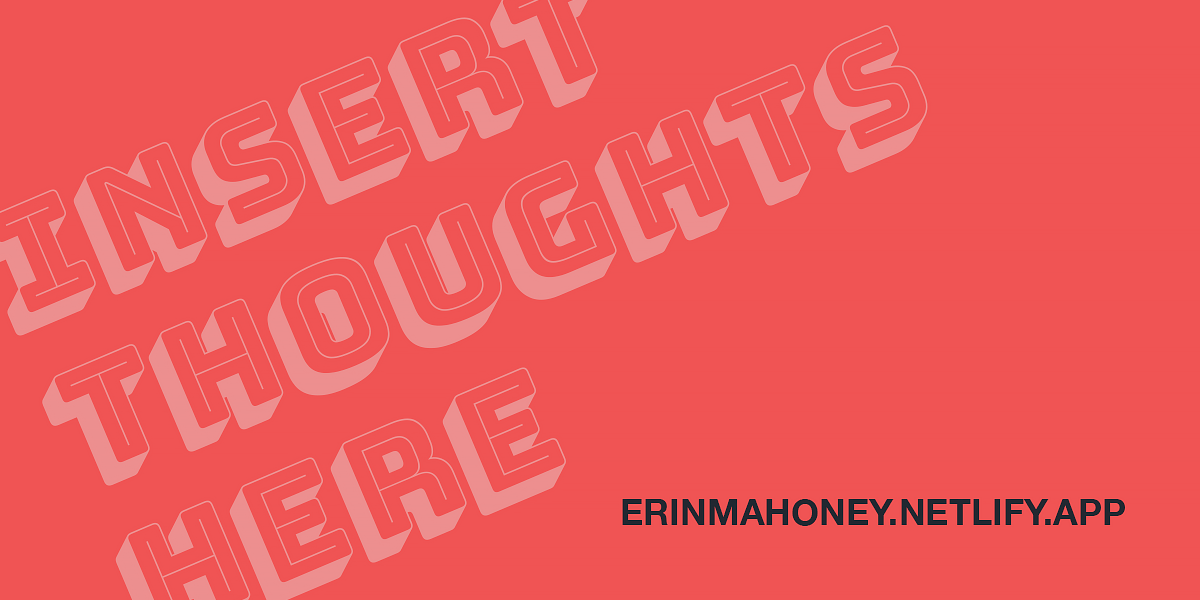
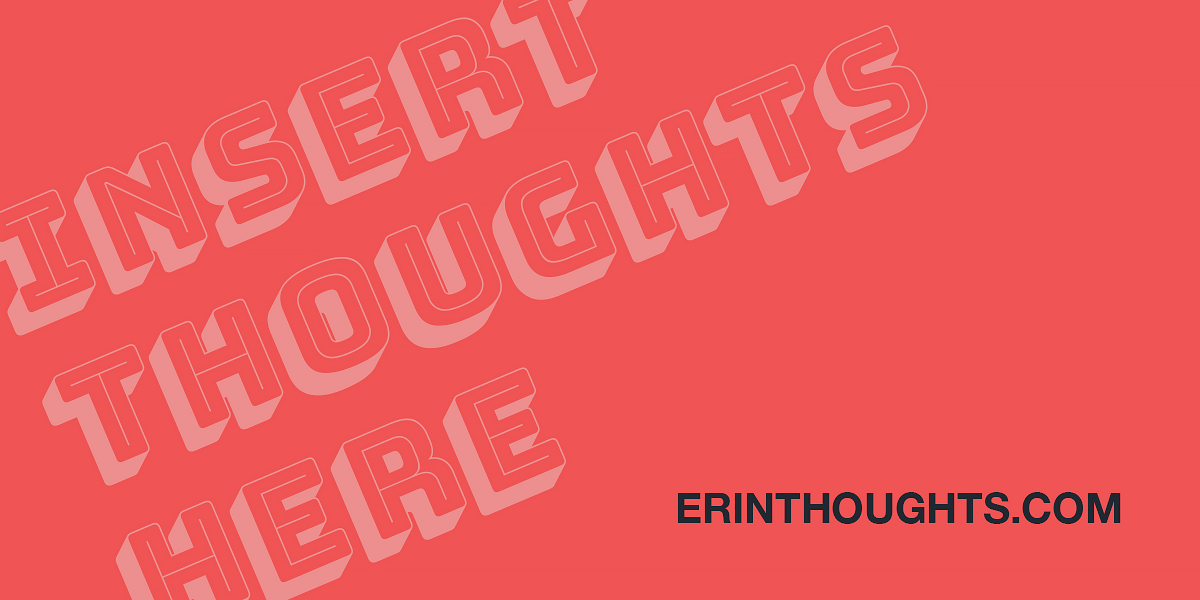
Update to new domain

Changed region(s): [[0.4933, 0.81, 0.9558, 0.9]]

diff --git a/src/components/seo.js b/src/components/seo.js
@@ -78,7 +78,7 @@ const SEO = ({ description, lang, meta, title }) => {
         },
         {
           name: `twitter:image`,
-          content: `https://erinmahoney.netlify.app${defaultMetaImage}`
+          content: `https://erinthoughts.com${defaultMetaImage}`
         }
       ].concat(meta)}
     />

diff --git a/gatsby-config.js b/gatsby-config.js
@@ -5,7 +5,7 @@ module.exports = {
       name: `Erin Mahoney`,
     },
     description: `A personal blog built with Gatsby`,
-    siteUrl: `https://erinmahoney.netlify.app/`,
+    siteUrl: `https://erinthoughts.com/`,
     social: {
       twitter: `@erintherad`,
     },
